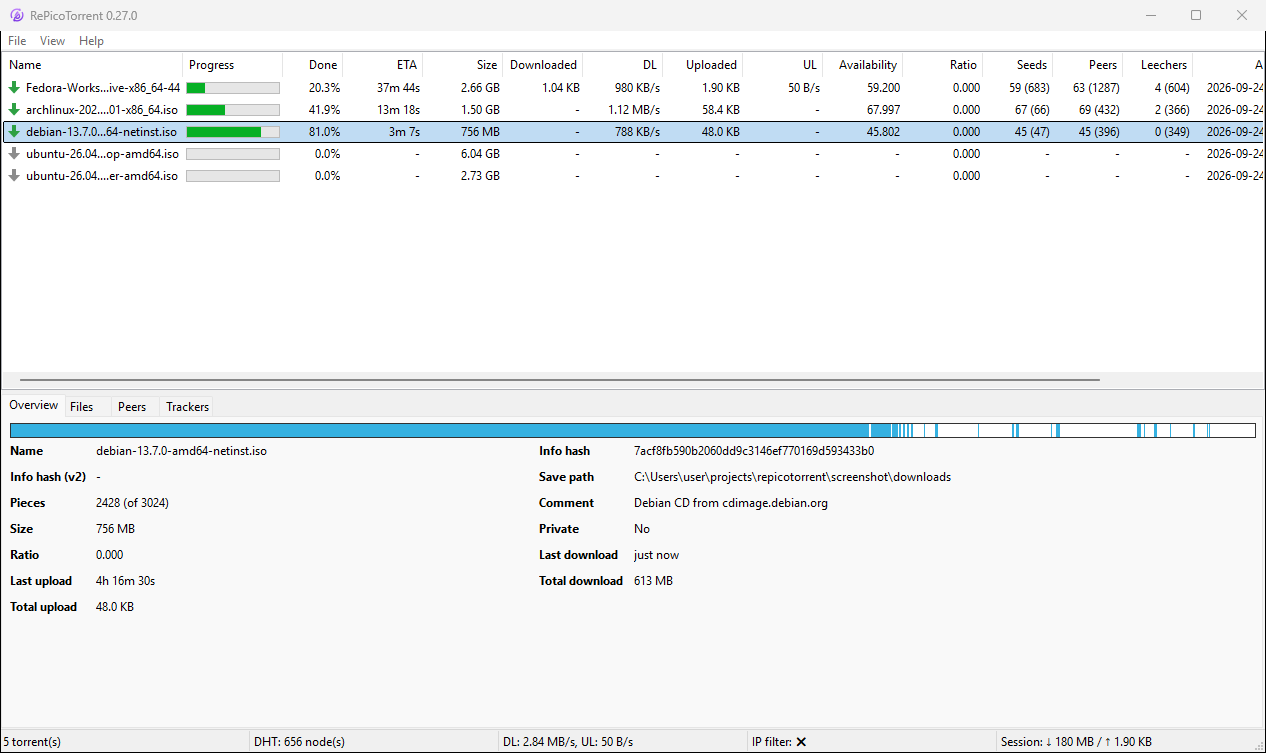
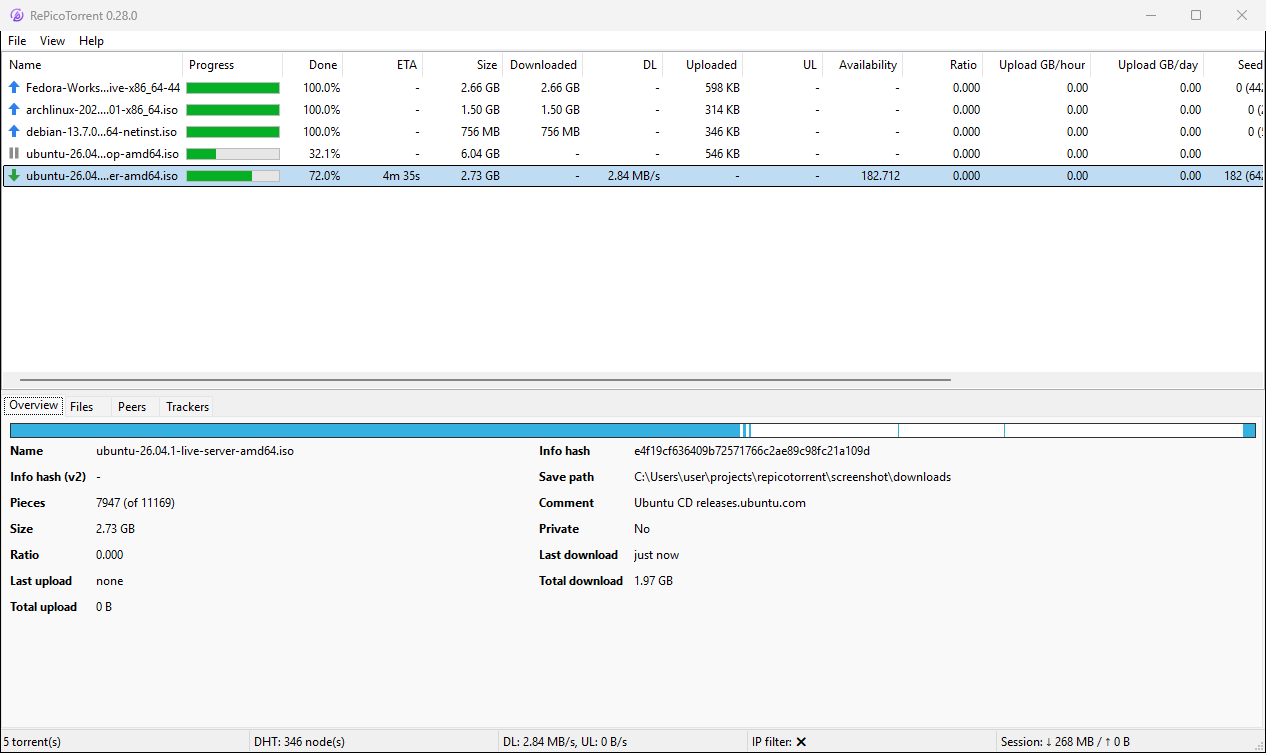
Release 0.28.0
Space resumes torrents stopped by an error. New README screenshot.

diff --git a/src/picotorrent/ui/torrentlistview.cpp b/src/picotorrent/ui/torrentlistview.cpp
@@ -361,6 +361,10 @@ TorrentListView::TorrentListView(wxWindow* parent, wxWindowID id, pt::UI::Models
                     // Waiting for its files: paused says whether it starts then.
                     if (state == BitTorrent::TorrentStatus::State::FilesMissing) { return !t->Status().paused; }
 
+                    // libtorrent pauses a torrent on an error; Space resumes it,
+                    // which clears the error.
+                    if (state == BitTorrent::TorrentStatus::State::Error) { return false; }
+
                     return state != BitTorrent::TorrentStatus::State::DownloadingPaused
                         && state != BitTorrent::TorrentStatus::State::UploadingPaused;
                 });

diff --git a/CHANGELOG.md b/CHANGELOG.md
@@ -3,7 +3,7 @@
 Versions follow [Semantic Versioning](https://semver.org). A release is a
 `vX.Y.Z` tag; its notes are the matching section below.
 
-## Unreleased
+## 0.28.0
 
 ### New
 
@@ -51,7 +51,7 @@ Versions follow [Semantic Versioning](https://semver.org). A release is a
 - A click on the notification area icon hides the window there when it is
   on screen and brings it back when it is not.
 - Space pauses the selected torrents, or resumes them when all of them are
-  paused.
+  paused or stopped by an error.
 
 ## 0.27.0
 
